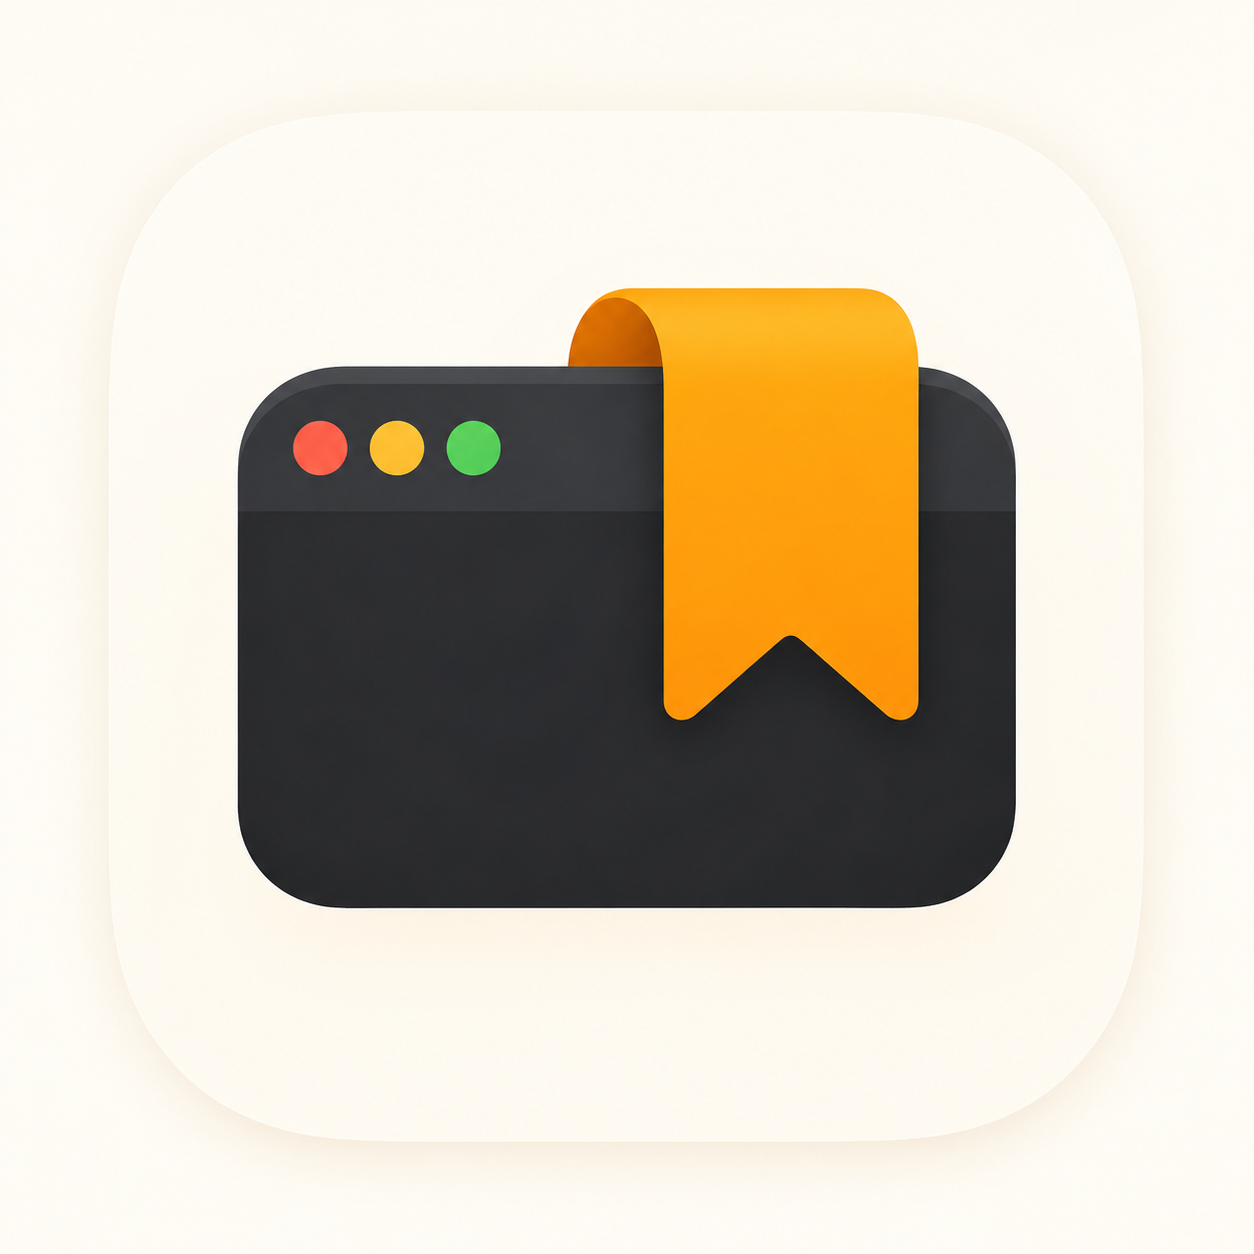
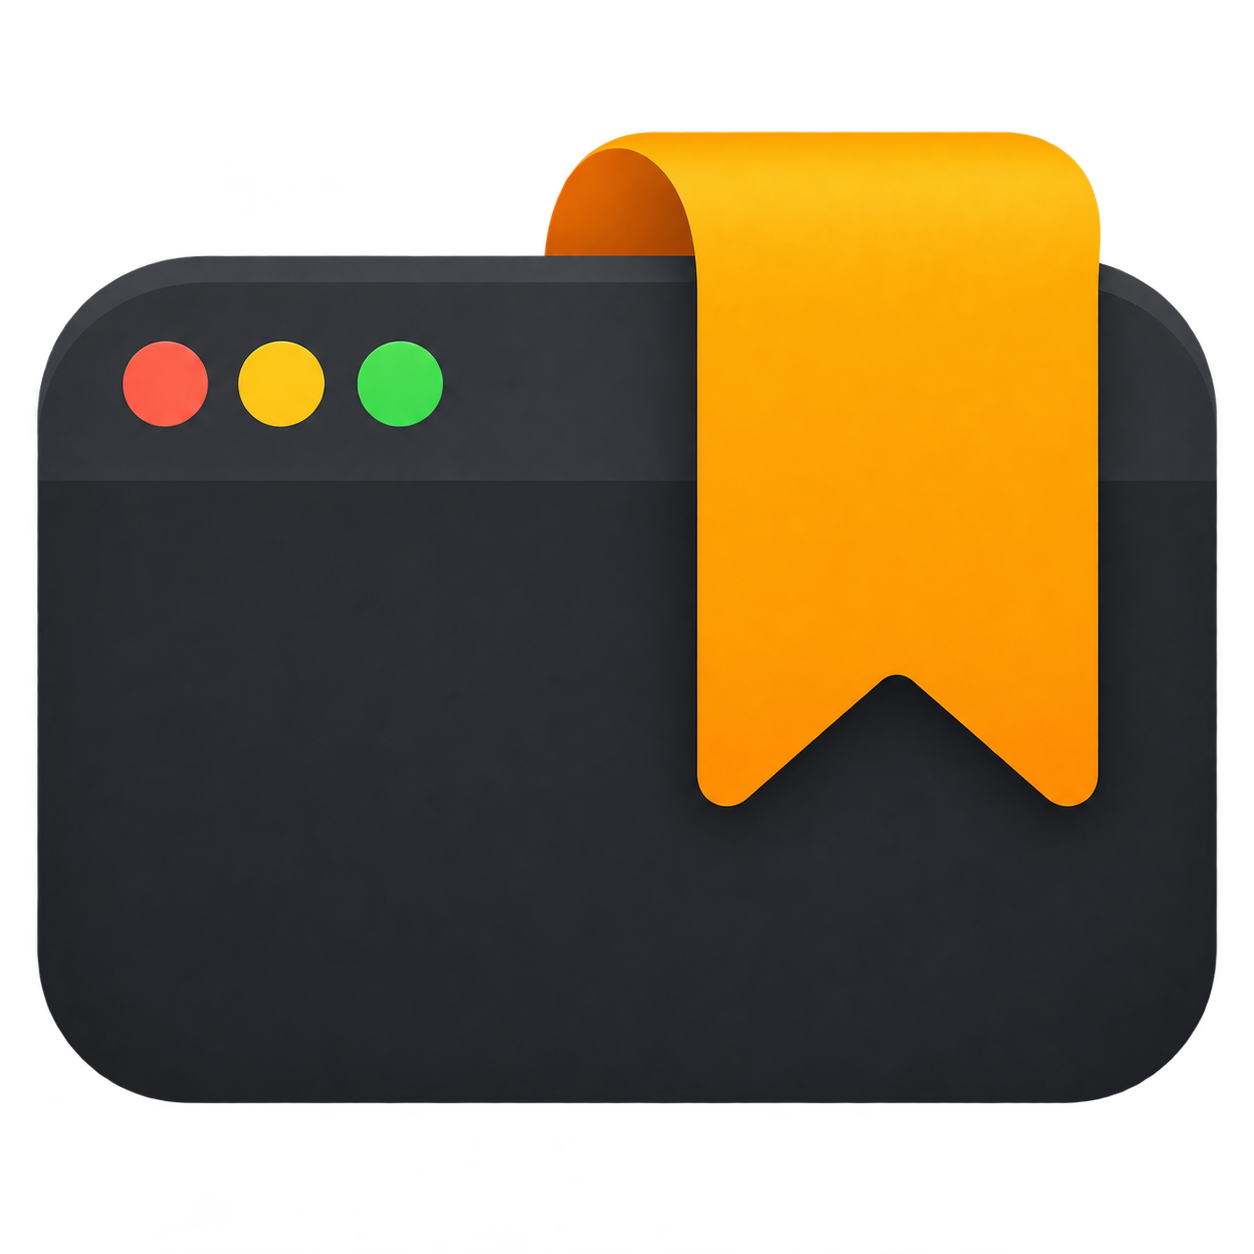
Enlarge bookmark artwork and remove in-app padding

diff --git a/macos/Icon.swift b/macos/Icon.swift
@@ -1,6 +1,7 @@
 import AppKit
 
-// Package the selected Tab Bookmark artwork at every native macOS icon size.
+// The source is the transparent mark. Add a Dock tile here, not in the artwork,
+// so the in-app logo can use the same mark without a padded white background.
 let directory = URL(fileURLWithPath: CommandLine.arguments[1])
 guard let artwork = NSImage(contentsOfFile: "macos/AppIcon.png") else {
     fatalError("Missing selected Tab Bookmark artwork")
@@ -18,8 +19,12 @@ for size in [16, 32, 128, 256, 512] {
         NSGraphicsContext.current?.imageInterpolation = .high
         let p = CGFloat(pixels)
         let bounds = NSRect(x: p * 0.05, y: p * 0.05, width: p * 0.90, height: p * 0.90)
-        NSBezierPath(roundedRect: bounds, xRadius: p * 0.20, yRadius: p * 0.20).addClip()
-        artwork.draw(in: bounds, from: .zero, operation: .copy, fraction: 1)
+        let tile = NSBezierPath(roundedRect: bounds, xRadius: p * 0.20, yRadius: p * 0.20)
+        NSColor(srgbRed: 1, green: 0.98, blue: 0.94, alpha: 1).setFill()
+        tile.fill()
+        tile.addClip()
+        // The source has only ~3% side padding. Do not add another inner inset.
+        artwork.draw(in: bounds, from: .zero, operation: .sourceOver, fraction: 1)
         NSGraphicsContext.restoreGraphicsState()
         let filename = "icon_\(size)x\(size)\(scale == 2 ? "@2x" : "").png"
         try bitmap.representation(using: .png, properties: [:])!.write(to: directory.appendingPathComponent(filename))

diff --git a/Sources/TerminalTLDR/App.swift b/Sources/TerminalTLDR/App.swift
@@ -210,12 +210,19 @@ struct ContentView: View {
     @ObservedObject var model: AppModel
     @State private var confirmRemoval = false
     private let accent = Color(red: 0.73, green: 0.36, blue: 0.06)
+    private static let brandMark: NSImage = {
+        guard let url = Bundle.main.url(forResource: "BrandMark", withExtension: "png"),
+              let image = NSImage(contentsOf: url) else {
+            return NSApplication.shared.applicationIconImage
+        }
+        return image
+    }()
 
     var body: some View {
         VStack(alignment: .leading, spacing: 20) {
             HStack(spacing: 12) {
-                Image(nsImage: NSApplication.shared.applicationIconImage)
-                    .resizable().frame(width: 48, height: 48)
+                Image(nsImage: Self.brandMark)
+                    .resizable().scaledToFit().frame(width: 48, height: 48)
                 VStack(alignment: .leading, spacing: 3) {
                     Text("Terminal TLDR").font(.system(size: 23, weight: .semibold, design: .rounded))
                     Text("Less tab hunting.").font(.system(size: 12)).foregroundStyle(.secondary)

diff --git a/design/logo-options/PROMPTS.md b/design/logo-options/PROMPTS.md
@@ -41,3 +41,10 @@ Use case: logo-brand. Create one polished original macOS app icon concept for Te
 ## 10 Window Wink
 
 Use case: logo-brand. Create one polished original macOS app icon concept for Terminal TLDR, a small utility that gives terminal windows short meaningful titles. Concept 10: Window Wink. A small warm-orange rounded terminal window with one cream title bar and a subtle single friendly winking eye implied by a short black curved stroke. Playful but sophisticated, no command prompt. Flat vector-like editorial brand mark, rich warm orange/amber/charcoal/cream, superb optical balance and legibility at 32 pixels. One centered icon, generous padding, subtle rounded-square cream backdrop, square image. No text, lettering, numbers, watermarks, gradients, gloss, photorealism or fake screenshot. Absolutely no OpenAI knot, Codex logo, generic >_ command prompt, purple app icon, or resemblance to existing AI brands. Render a single distinctive proposed icon, not a grid.
+
+## Selected mark: remove padding
+
+Edited option 01 with the built-in image generation tool. The transparent result
+is saved in `macos/AppIcon.png`; the original option remains unchanged.
+
+Use case: background-extraction. Edit target: the attached approved Terminal TLDR Tab Bookmark logo. Remove ALL cream/white background, rounded-square cream tile, and its cast shadow. Keep ONLY the charcoal terminal window, its red/yellow/green lights and the folded golden-orange bookmark draped over its upper right. Preserve their exact geometry, proportions, rich colors, subtle dimensional shading, position relative to one another and clean edges. No redesign, no prompt symbol, no text, no additional objects or outlines. Enlarge and tightly frame the isolated terminal-and-bookmark mark on a genuinely transparent square canvas: the terminal nearly fills the width, leaving only 2 percent padding on left and right. Center the whole mark vertically. This is a production transparent logo asset, not a mockup. Transparent pixels wherever the original cream background/tile used to be.

diff --git a/README.md b/README.md
@@ -198,6 +198,7 @@ or `~/.terminal-tldr/performance/`. Never publish a real desktop or conversation
 ## Logo exploration
 
 **Tab Bookmark** (option 01) is the selected app icon. Its source artwork is
-`macos/AppIcon.png`; the Dock and main window use the same bundled icon, with a
-matching bookmark symbol in the menu bar. The original ten directions and
-generation prompts are preserved in `design/logo-options/`.
+`macos/AppIcon.png`, a tightly framed transparent mark. The Dock adds a cream
+tile with minimal side padding; the main window uses the mark without a tile.
+A matching bookmark symbol appears in the menu bar. The original ten directions
+and generation prompts are preserved in `design/logo-options/`.
